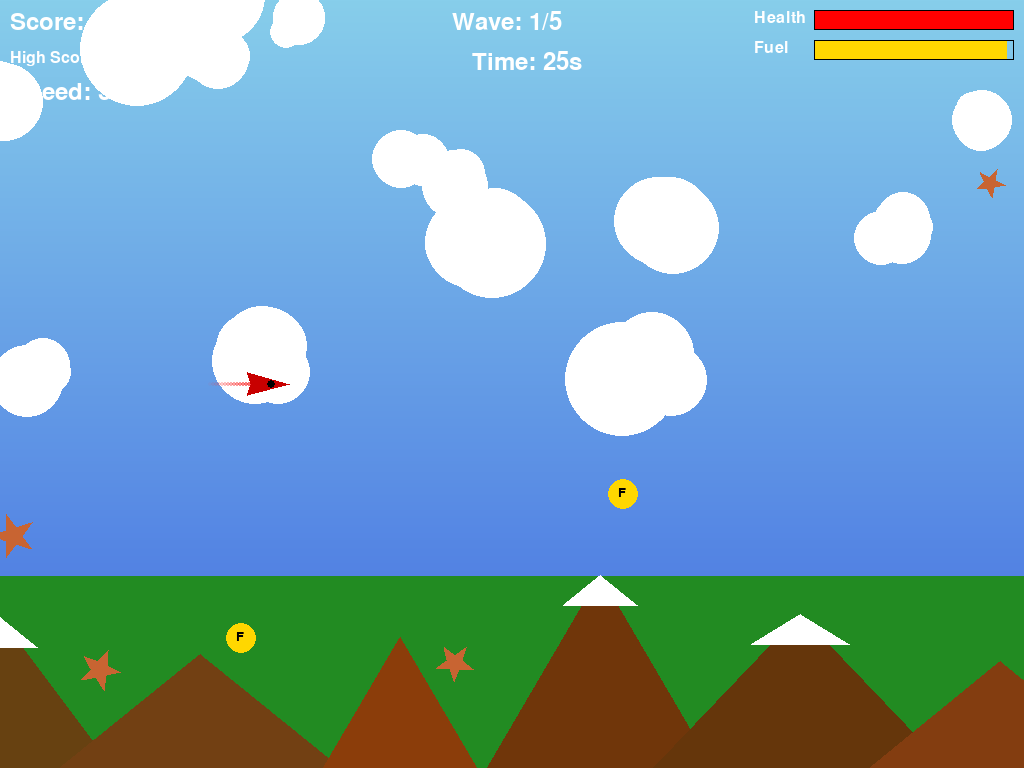
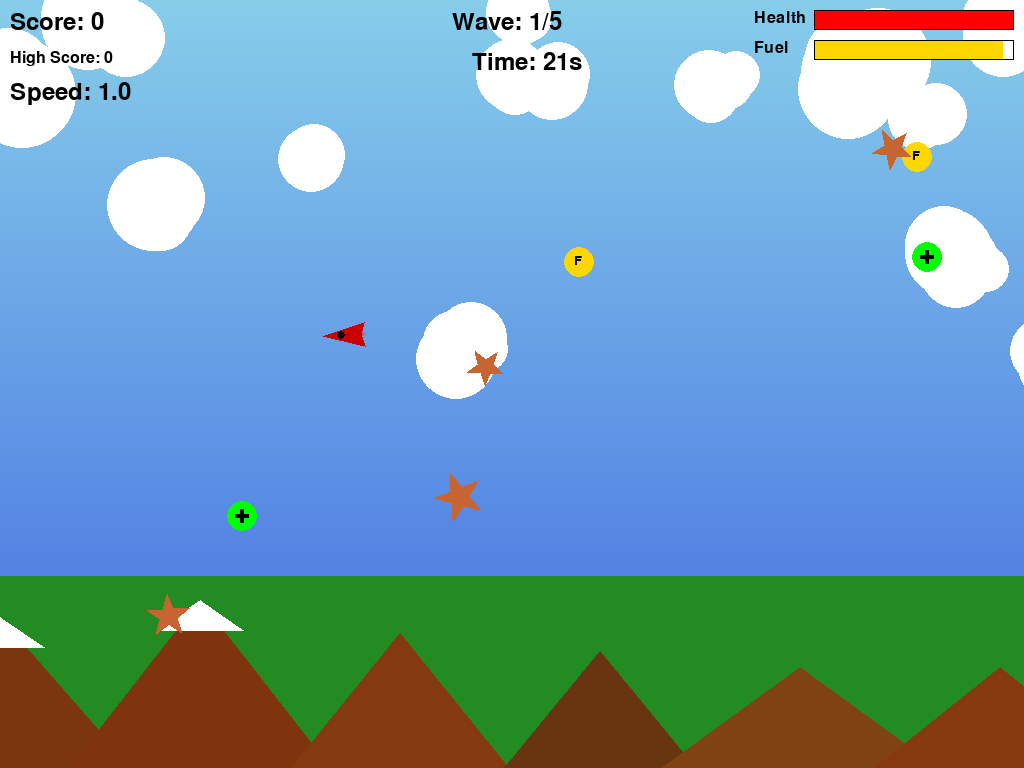
Commit to main #1

diff --git a/flight_game.py b/flight_game.py
@@ -772,19 +772,19 @@ class Game:
         
     def draw_hud(self, surface):
         # Draw score
-        score_text = self.font.render(f"Score: {self.score}", True, WHITE)
+        score_text = self.font.render(f"Score: {self.score}", True, BLACK)
         surface.blit(score_text, (10, 10))
         
         # Draw high score
-        high_score_text = self.small_font.render(f"High Score: {self.high_score}", True, WHITE)
+        high_score_text = self.small_font.render(f"High Score: {self.high_score}", True, BLACK)
         surface.blit(high_score_text, (10, 50))
         
         # Draw speed
-        speed_text = self.font.render(f"Speed: {self.airplane.speed:.1f}", True, WHITE)
+        speed_text = self.font.render(f"Speed: {self.airplane.speed:.1f}", True, BLACK)
         surface.blit(speed_text, (10, 80))
         
         # Draw wave info
-        wave_text = self.font.render(f"Wave: {self.current_wave}/{self.max_waves}", True, WHITE)
+        wave_text = self.font.render(f"Wave: {self.current_wave}/{self.max_waves}", True, BLACK)
         surface.blit(wave_text, (SCREEN_WIDTH // 2 - 60, 10))
         
         # Draw wave timer
@@ -792,26 +792,26 @@ class Game:
             elapsed = pygame.time.get_ticks() - self.wave_start_time
             remaining = max(0, self.wave_duration - elapsed)
             seconds = remaining // 1000
-            timer_text = self.font.render(f"Time: {seconds}s", True, WHITE)
+            timer_text = self.font.render(f"Time: {seconds}s", True, BLACK)
             surface.blit(timer_text, (SCREEN_WIDTH // 2 - 40, 50))
         
         # Draw health bar
         pygame.draw.rect(surface, BLACK, (SCREEN_WIDTH - 210, 10, 200, 20), 1)
         health_width = int((self.airplane.health / 100) * 198)
         pygame.draw.rect(surface, (255, 0, 0), (SCREEN_WIDTH - 209, 11, health_width, 18))
-        health_text = self.small_font.render("Health", True, WHITE)
+        health_text = self.small_font.render("Health", True, BLACK)
         surface.blit(health_text, (SCREEN_WIDTH - 270, 10))
         
         # Draw fuel bar
         pygame.draw.rect(surface, BLACK, (SCREEN_WIDTH - 210, 40, 200, 20), 1)
         fuel_width = int((self.airplane.fuel / 100) * 198)
         pygame.draw.rect(surface, (255, 215, 0), (SCREEN_WIDTH - 209, 41, fuel_width, 18))
-        fuel_text = self.small_font.render("Fuel", True, WHITE)
+        fuel_text = self.small_font.render("Fuel", True, BLACK)
         surface.blit(fuel_text, (SCREEN_WIDTH - 270, 40))
         
         # Draw enemy count in wave 5
         if self.current_wave == 5:
-            enemy_text = self.small_font.render(f"Enemies: {len(self.enemies)}", True, WHITE)
+            enemy_text = self.small_font.render(f"Enemies: {len(self.enemies)}", True, BLACK)
             surface.blit(enemy_text, (SCREEN_WIDTH // 2 - 40, 90))
     
     def draw_wave_transition(self, surface):
